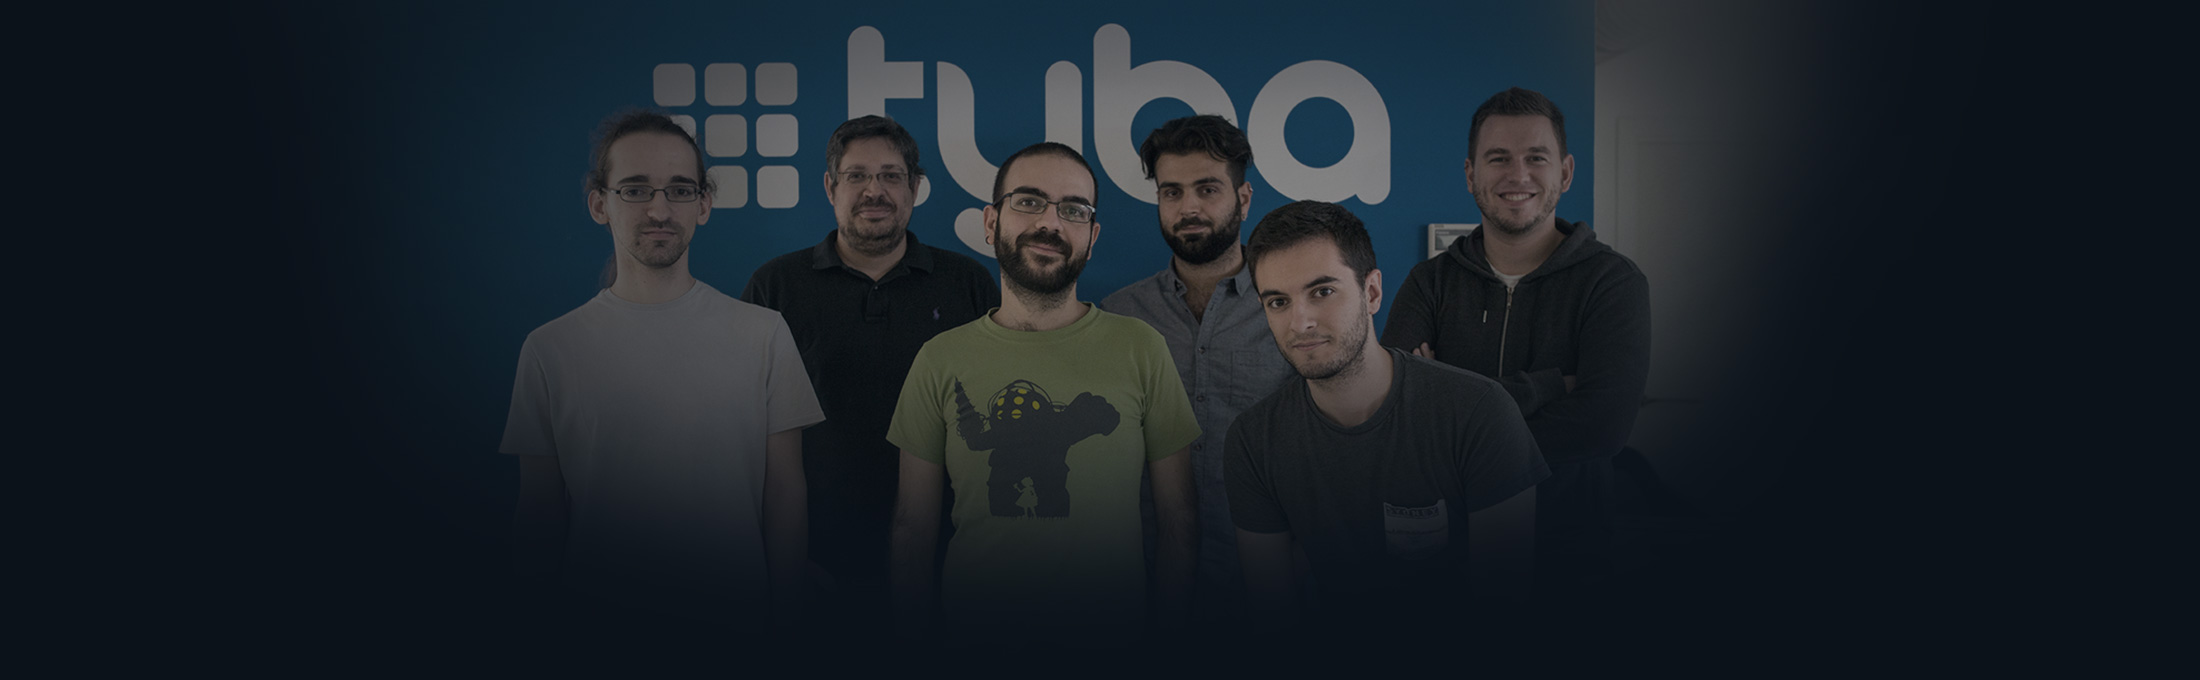
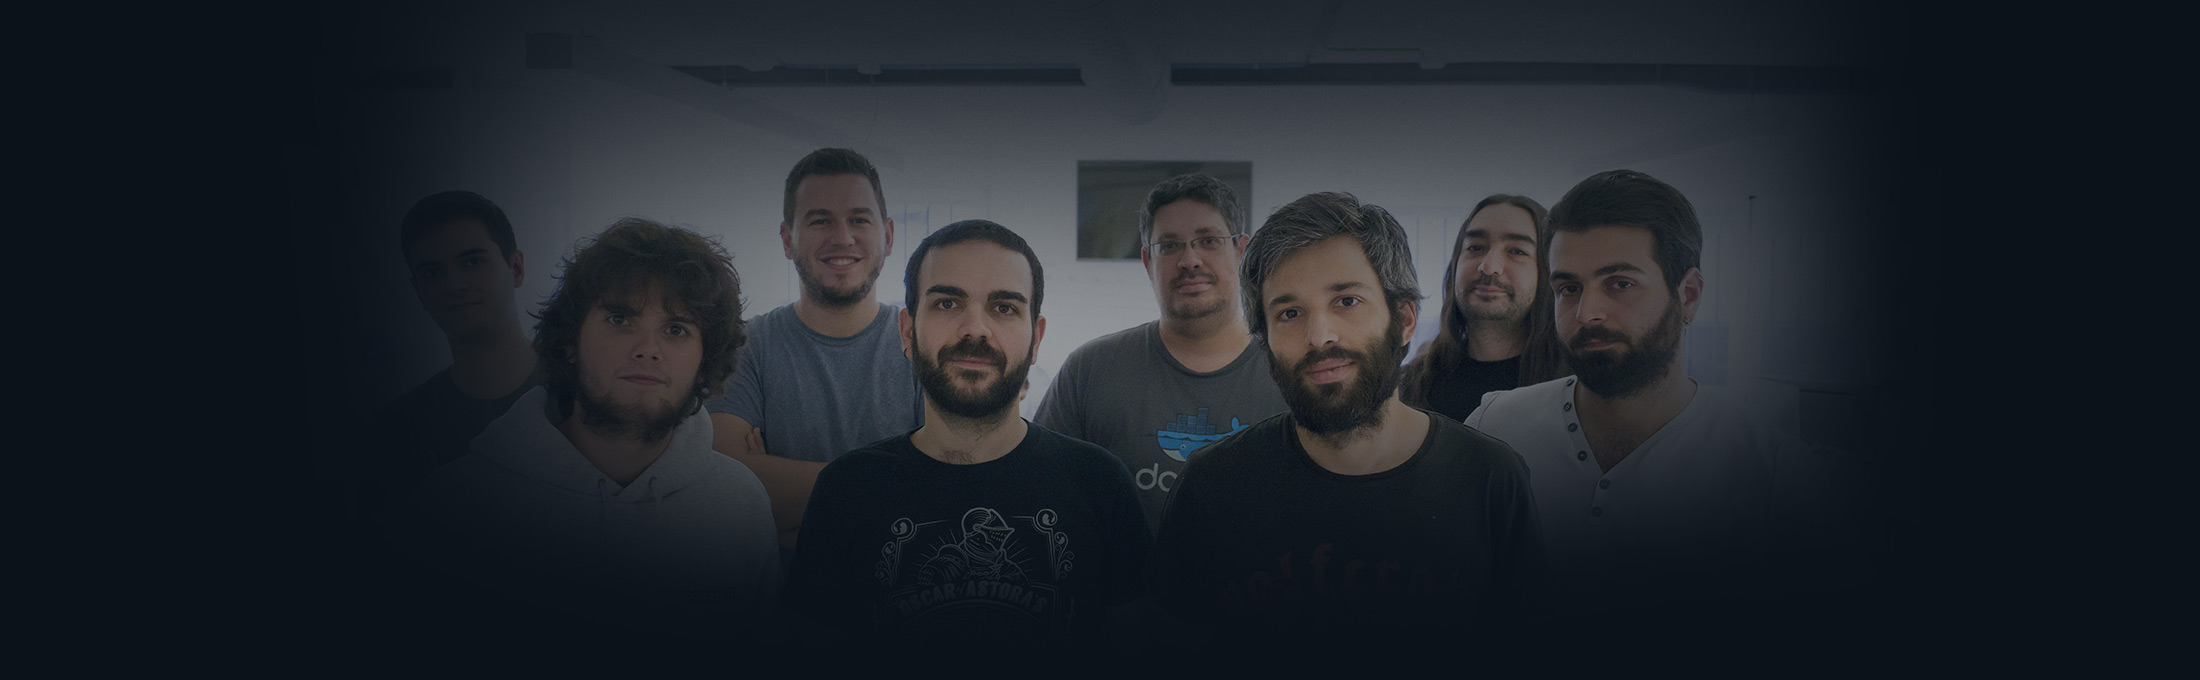
Added new team members and changed background photo of team part
@src-d/tools

Changed region(s): [[0.2164, 0.0309, 0.8345, 0.8029]]

diff --git a/layouts/about/single.html b/layouts/about/single.html
@@ -58,6 +58,27 @@
                 <div class="team-item-position">Junior Developer Relations</div>
                 <div class="team-item-github"><a href="https://github.com/OmarMohamedDev" target="_blank">GitHub Profile</a></div>
             </div>
+            <div class="team-item">
+                <div class="team-item-photo"><img src="/image/tyba/pablo.png"></div>
+                <div class="team-item-name1">Pablo</div>
+                <div class="team-item-name2">de las Heras</div>
+                <div class="team-item-position">Junior Developer Relations</div>
+                <div class="team-item-github"><a href="#" target="_blank">GitHub Profile</a></div>
+            </div>
+            <div class="team-item">
+                <div class="team-item-photo"><img src="/image/tyba/petros.png"></div>
+                <div class="team-item-name1">Petros</div>
+                <div class="team-item-name2">Koklas</div>
+                <div class="team-item-position">Junior Developer Relations</div>
+                <div class="team-item-github"><a href="#" target="_blank">GitHub Profile</a></div>
+            </div>
+            <div class="team-item">
+                <div class="team-item-photo"><img src="/image/tyba/jesus.png"></div>
+                <div class="team-item-name1">Jesus</div>
+                <div class="team-item-name2">Caño</div>
+                <div class="team-item-position">Junior Developer Relations</div>
+                <div class="team-item-github"><a href="#" target="_blank">GitHub Profile</a></div>
+            </div>
         </div>
 
         <div class="our-team">Engineering</div>
@@ -325,7 +346,7 @@
                     <tbody>
                     <tr>
                         <td class="state">Spain</td>
-                        <td class="number">14</td>
+                        <td class="number">16</td>
                     </tr>
                     <tr>
                         <td class="state">Germany</td>
@@ -336,11 +357,11 @@
                         <td class="number">3</td>
                     </tr>
                     <tr>
-                        <td class="state">Portugal</td>
-                        <td class="number">2</td>
+                        <td class="state">Greece</td>
+                        <td class="number">3</td>
                     </tr>
                     <tr>
-                        <td class="state">Greece</td>
+                        <td class="state">Portugal</td>
                         <td class="number">2</td>
                     </tr>
                     <tr>
